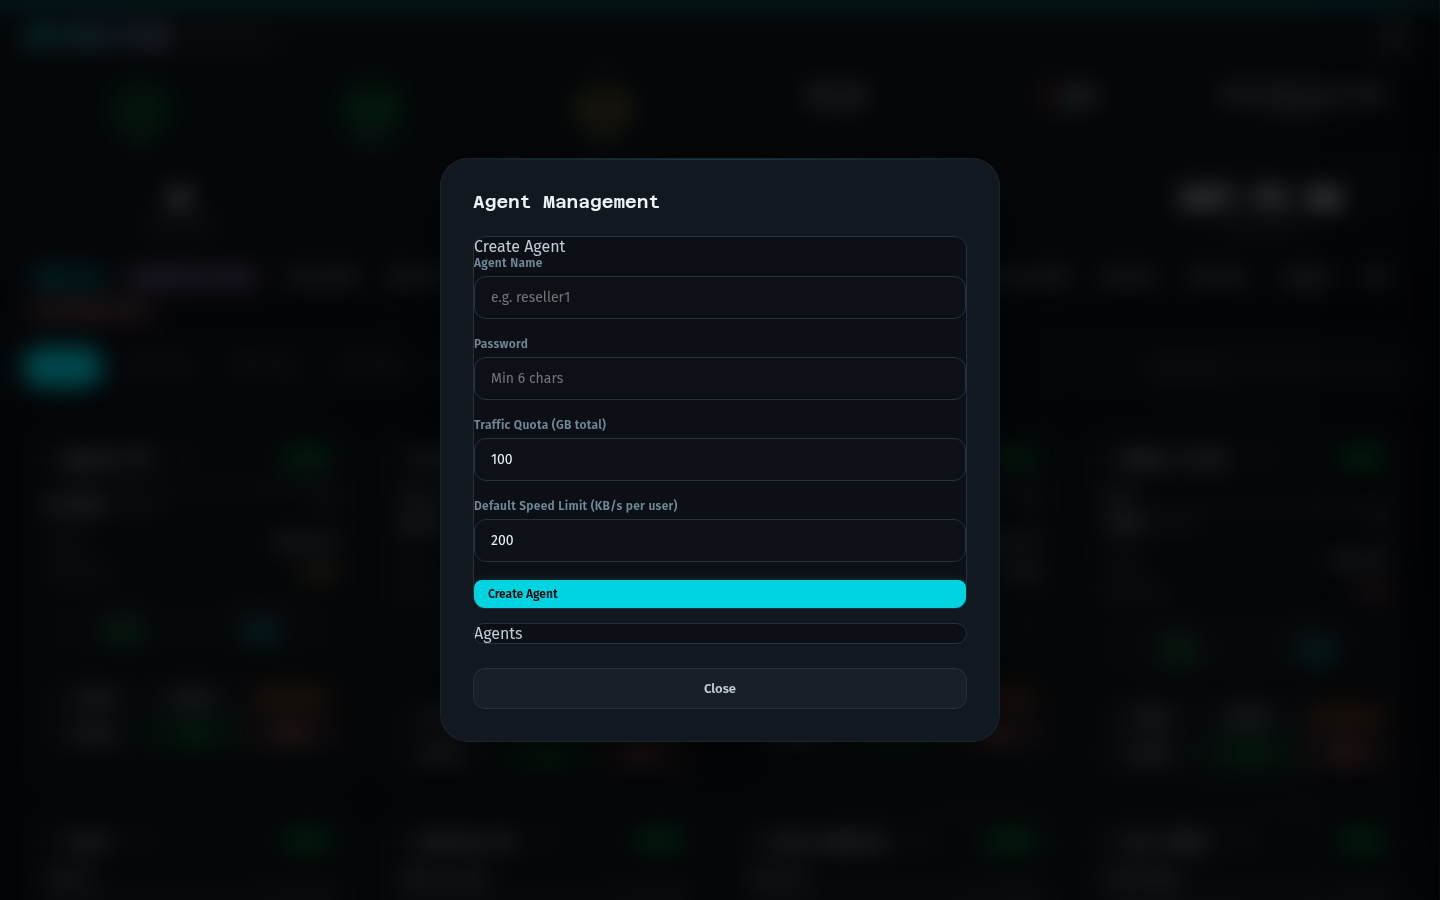
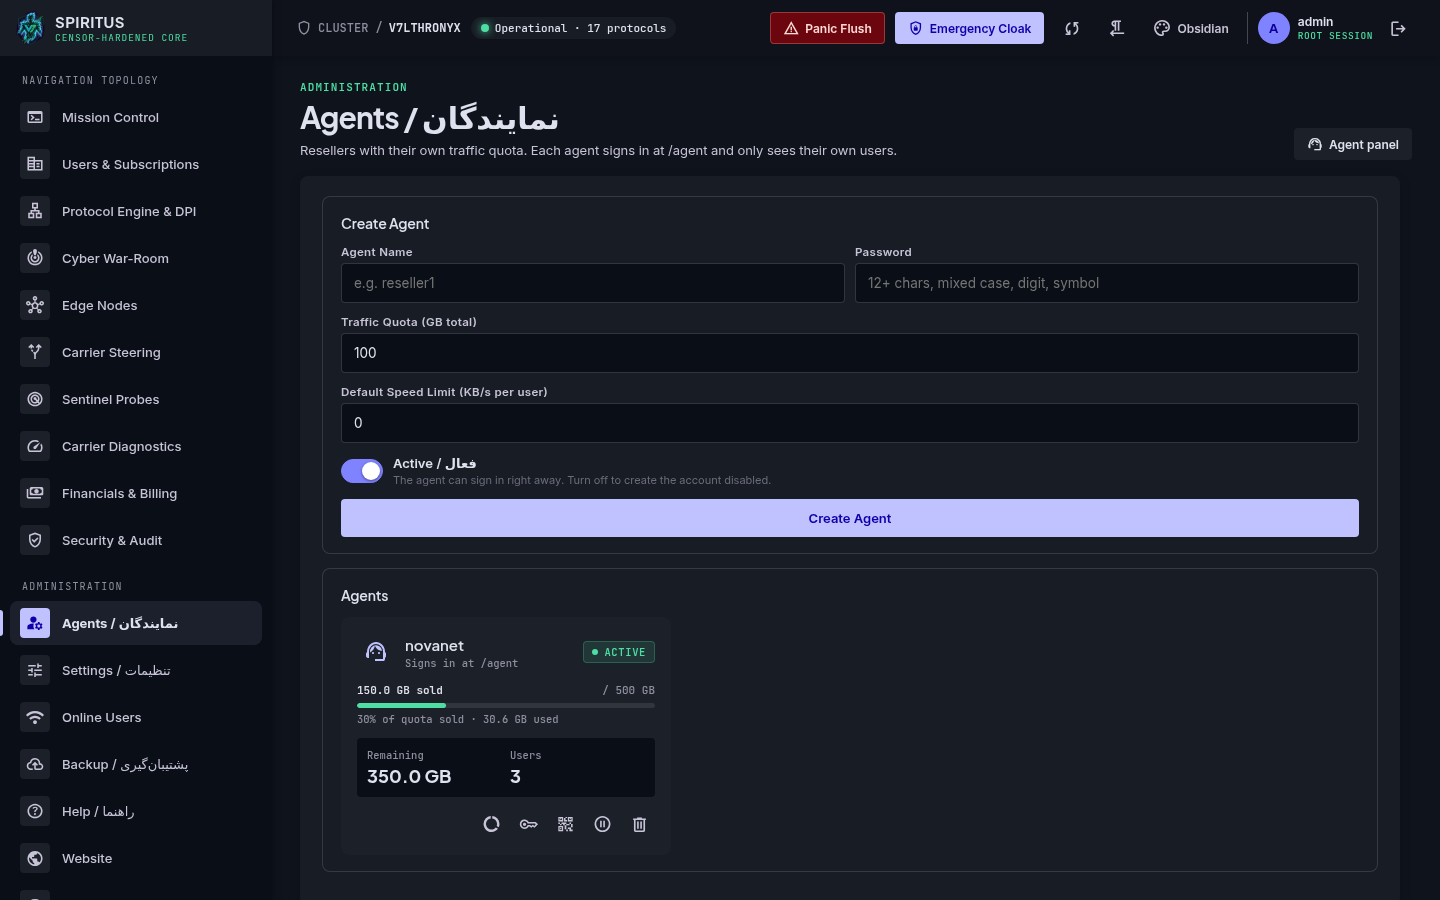
docs: new screenshots of every theme and section, README refresh
36 screenshots (Obsidian, CyberOps, Midnight; every admin section, config
sheets, sing-box / Clash subscriptions, agent panel, customer page on desktop
and phone, website), taken from a test server with demo data and live
clients. README: highlights for live user sync, enforced quotas and speed
limits, the new subscription formats; corrected protocol count and badges.

diff --git a/README.md b/README.md
@@ -12,8 +12,8 @@
   <img src="https://img.shields.io/badge/Python-3.13-3776AB.svg?logo=python&logoColor=white" alt="Python 3.13">
   <img src="https://img.shields.io/badge/FastAPI-0.136-009688.svg?logo=fastapi&logoColor=white" alt="FastAPI 0.136">
   <img src="https://img.shields.io/badge/Xray--core-%E2%9C%93-orange.svg" alt="Xray-core">
-  <img src="https://img.shields.io/badge/sing--box-1.13-blueviolet.svg" alt="sing-box 1.13">
-  <img src="https://img.shields.io/badge/protocols-16-success.svg" alt="16 protocols">
+  <img src="https://img.shields.io/badge/sing--box-1.14-blueviolet.svg" alt="sing-box 1.14">
+  <img src="https://img.shields.io/badge/protocols-13-success.svg" alt="13 protocols">
   <img src="https://img.shields.io/badge/license-MIT-yellow.svg" alt="MIT License">
 </p>
 
@@ -31,37 +31,118 @@
 
 ## ✨ Highlights
 
-- **16 transport protocols** spanning Xray-core, sing-box, and WireGuard — REALITY, XHTTP, Vision, CDN-fronting, Hysteria2, TUIC, ShadowTLS, Mieru, NaiveProxy and AmneziaWG.
-- **Built-in DPI evasion** — TLS fragmentation, noise padding, REALITY domain-fronting, SNI rotation, and emergency-relay failover.
-- **Multi-tenant by design** — admins, traffic-quota agents, and resellers with commission tracking and per-brand subscription pages.
-- **Native mobile client** — a Kotlin/Compose Android app (Xray + sing-box + tun2socks engines) that consumes the same subscription API.
-- **Security-first** — CSP with per-request nonces, HSTS preload, double-submit CSRF, pinned-algorithm JWT, TOTP 2FA, host-header allowlisting, rate-limiting + fail2ban, and a dependency set audited clean.
-- **Operable** — one-command installer, systemd units, Prometheus/Grafana observability, Telegram bot, and automated backups.
+- **13 transport protocols** on Xray-core, sing-box and mita — REALITY, XHTTP, Vision, CDN-fronting, Hysteria2, TUIC, ShadowTLS, NaiveProxy, WireGuard and Mieru — each tested end to end with real clients.
+- **Users take effect live** — create, renew, disable or delete a user and Xray picks it up through its API in about a second: no restart, nobody else disconnected.
+- **Quotas, expiry and speed limits that are enforced** — traffic is counted per user (and per day), users are cut off at their quota or date and come back on renewal; per-user speed limits run in the kernel (tc + nftables).
+- **A profile for every client** — Base64 links, Xray JSON, a sing-box profile (Hiddify, NekoBox) and a Clash Meta profile (Clash Verge, FlClash), plus a bilingual subscription page with one-tap import.
+- **Built-in DPI evasion** — TLS fragmentation, noise padding, REALITY camouflage, Hysteria2 port hopping, SNI rotation, and an emergency cloak driven by in-country probes.
+- **Multi-tenant by design** — admins, traffic-quota agents with their own panel, and resellers with commission tracking.
+- **Security-first** — CSP with per-request nonces, HSTS preload, double-submit CSRF, pinned-algorithm JWT, TOTP 2FA, host-header allowlisting, rate-limiting + fail2ban, and a root helper that only runs allowlisted operations.
+- **Operable** — one-command installer, systemd units, Prometheus metrics, Telegram alerts, automated backups, and three themes.
 
 ---
 
 ## 📸 Screenshots
 
 <p align="center">
-  <img src="docs/screenshots/dashboard.png" alt="Admin dashboard — live stats, protocol toggles, per-user cards" width="800">
+  <img src="docs/screenshots/users-live.png" alt="Users and subscriptions: live speed, quota, validity and status per user" width="900">
 </p>
-<p align="center"><em>Admin dashboard — live CPU/RAM/traffic, one-tap protocol toggles, and per-user cards with usage, expiry and speed.</em></p>
+<p align="center"><em>Users &amp; subscriptions: live speed, quota, validity and status (active, expired, quota used) for every account.</em></p>
+
+### Three themes
 
 <table>
   <tr>
-    <td width="50%"><img src="docs/screenshots/settings-protocols.png" alt="Protocol & REALITY settings"><br><sub>Protocol / REALITY / CDN configuration</sub></td>
-    <td width="50%"><img src="docs/screenshots/subscription-mobile.png" alt="Subscriber view on mobile"><br><sub>Subscriber view (mobile, RTL)</sub></td>
+    <th>Obsidian</th><th>CyberOps</th><th>Midnight</th>
   </tr>
   <tr>
-    <td width="50%"><img src="docs/screenshots/analytics.png" alt="Traffic analytics"><br><sub>Traffic analytics & top users</sub></td>
-    <td width="50%"><img src="docs/screenshots/agents.png" alt="Agent & reseller management"><br><sub>Agent / reseller management</sub></td>
+    <td><img src="docs/screenshots/theme-obsidian-dashboard.png" alt="Mission control, Obsidian theme"></td>
+    <td><img src="docs/screenshots/theme-cyberops-dashboard.png" alt="Mission control, CyberOps theme"></td>
+    <td><img src="docs/screenshots/theme-midnight-dashboard.png" alt="Mission control, Midnight theme"></td>
+  </tr>
+  <tr>
+    <td><img src="docs/screenshots/theme-obsidian-users.png" alt="Users, Obsidian theme"></td>
+    <td><img src="docs/screenshots/theme-cyberops-users.png" alt="Users, CyberOps theme"></td>
+    <td><img src="docs/screenshots/theme-midnight-users.png" alt="Users, Midnight theme"></td>
+  </tr>
+  <tr>
+    <td><img src="docs/screenshots/theme-obsidian-login.png" alt="Sign-in, Obsidian theme"></td>
+    <td><img src="docs/screenshots/theme-cyberops-login.png" alt="Sign-in, CyberOps theme"></td>
+    <td><img src="docs/screenshots/theme-midnight-login.png" alt="Sign-in, Midnight theme"></td>
   </tr>
 </table>
 
-<p align="center">
-  <img src="docs/screenshots/subscription-page.png" alt="Per-user subscription page" width="620">
-</p>
-<p align="center"><em>Branded, plain-language subscription page (bilingual, RTL) — what each customer sees.</em></p>
+### Configs and subscriptions
+
+<table>
+  <tr>
+    <td width="50%"><img src="docs/screenshots/config-sheet.png" alt="Config sheet with every protocol and a QR code"><br><sub>Per-user config: every protocol the server runs, with QR</sub></td>
+    <td width="50%"><img src="docs/screenshots/config-subscriptions.png" alt="Subscription page, sing-box and Clash profile links"><br><sub>Subscription page, sing-box and Clash Meta profiles</sub></td>
+  </tr>
+  <tr>
+    <td width="50%"><img src="docs/screenshots/config-hysteria2.png" alt="Hysteria2 config"><br><sub>Hysteria2 with Salamander and a pinned certificate</sub></td>
+    <td width="50%"><img src="docs/screenshots/config-wireguard.png" alt="WireGuard config"><br><sub>WireGuard: per-user keys, scan the QR in the WireGuard app</sub></td>
+  </tr>
+  <tr>
+    <td width="50%"><img src="docs/screenshots/subscription-page.png" alt="Customer subscription page"><br><sub>What each customer sees: status, usage, one-tap import</sub></td>
+    <td width="50%"><img src="docs/screenshots/subscription-mobile-fa.png" alt="Customer page on a phone, Persian"><br><sub>The same page on a phone, in Persian (RTL)</sub></td>
+  </tr>
+</table>
+
+### Operations
+
+<table>
+  <tr>
+    <td width="50%"><img src="docs/screenshots/protocol-engine.png" alt="Protocol engine and DPI"><br><sub>Protocol engine: listening ports, REALITY dest checks, success from Iran</sub></td>
+    <td width="50%"><img src="docs/screenshots/war-room.png" alt="Cyber war-room"><br><sub>War-room: attacks, DPI posture, automatic emergency cloak</sub></td>
+  </tr>
+  <tr>
+    <td width="50%"><img src="docs/screenshots/sentinel-probes.png" alt="Sentinel probes"><br><sub>Sentinel probes inside Iran report what each carrier lets through</sub></td>
+    <td width="50%"><img src="docs/screenshots/carrier-steering.png" alt="Carrier steering"><br><sub>Carrier steering: best protocol per carrier</sub></td>
+  </tr>
+  <tr>
+    <td width="50%"><img src="docs/screenshots/online-users.png" alt="Online users with connected IPs"><br><sub>Who is online, from which IPs</sub></td>
+    <td width="50%"><img src="docs/screenshots/system-details.png" alt="System details with daily traffic"><br><sub>System details and real daily traffic</sub></td>
+  </tr>
+  <tr>
+    <td width="50%"><img src="docs/screenshots/financials.png" alt="Financials and billing"><br><sub>Payments (Zarinpal, IDPay, USDT) and reseller wallets</sub></td>
+    <td width="50%"><img src="docs/screenshots/agents.png" alt="Agents"><br><sub>Agents: quota sold and used, one-click mobile login</sub></td>
+  </tr>
+</table>
+
+<details>
+<summary><b>More screens</b>: agent panel, settings, edge nodes, security, add-user sheet, phone, website</summary>
+
+<table>
+  <tr>
+    <td width="50%"><img src="docs/screenshots/agent-panel.png" alt="Agent panel"><br><sub>Agent panel: an agent sees and sells only their own users</sub></td>
+    <td width="50%"><img src="docs/screenshots/agent-groups.png" alt="Agent groups"><br><sub>Agent panel: bulk-created groups</sub></td>
+  </tr>
+  <tr>
+    <td width="50%"><img src="docs/screenshots/settings.png" alt="Settings"><br><sub>Settings: one row per option, sections fold</sub></td>
+    <td width="50%"><img src="docs/screenshots/add-user-sheet.png" alt="Add user side sheet"><br><sub>Add user: side sheet, presets, speed limit</sub></td>
+  </tr>
+  <tr>
+    <td width="50%"><img src="docs/screenshots/edge-nodes.png" alt="Edge nodes"><br><sub>Edge nodes and their reachability</sub></td>
+    <td width="50%"><img src="docs/screenshots/carrier-diagnostics.png" alt="Carrier diagnostics"><br><sub>Carrier diagnostics</sub></td>
+  </tr>
+  <tr>
+    <td width="50%"><img src="docs/screenshots/security-audit.png" alt="Security and audit"><br><sub>Security &amp; audit log</sub></td>
+    <td width="50%"><img src="docs/screenshots/confirm-bar.png" alt="Confirm bar"><br><sub>No browser pop-ups: confirmations slide in at the bottom</sub></td>
+  </tr>
+  <tr>
+    <td width="50%"><img src="docs/screenshots/backup.png" alt="Backup"><br><sub>Encrypted backups</sub></td>
+    <td width="50%"><img src="docs/screenshots/help.png" alt="Help"><br><sub>Built-in help (English / Persian)</sub></td>
+  </tr>
+  <tr>
+    <td width="50%"><img src="docs/screenshots/mobile-panel.png" alt="Admin panel on a phone"><br><sub>The admin panel on a phone (CyberOps)</sub></td>
+    <td width="50%"><img src="docs/screenshots/landing.png" alt="Project website"><br><sub>Project website</sub></td>
+  </tr>
+</table>
+
+</details>
+
+<sub>Screenshots use demo data on a test server: addresses are from the 203.0.113.0/24 documentation range, and the "online" users are real clients connected over loopback.</sub>
 
 ---
 
@@ -69,21 +150,33 @@
 
 | Engine | Protocol | Transport / Flow | TLS | CDN |
 |--------|----------|------------------|:---:|:---:|
-| Xray | **VLESS + XHTTP + REALITY** | XHTTP, relay-domain fronting | REALITY | — |
-| Xray | **VLESS + REALITY + Vision** | XTLS-Vision (fresh IP) | REALITY | — |
-| Xray | **VLESS-Reverse-REALITY** | backhaul / rathole tunnel | REALITY | — |
-| Xray | **VLESS + WS / gRPC / HTTPUpgrade** | WebSocket, gRPC, HTTPUpgrade | ✅ | ✅ |
-| Xray | **VMess + WS + TLS** | WebSocket | ✅ | ✅ |
-| Xray | **Trojan-CDN** | WS / gRPC behind CDN | ✅ | ✅ |
-| Xray | **Shadowsocks-2022** | TCP (blake3-AES-GCM) | — | — |
-| sing-box | **Hysteria2** | QUIC + Salamander + port-hop | ✅ | — |
+| Xray | **VLESS + XHTTP + REALITY** | XHTTP | REALITY | — |
+| Xray | **VLESS + REALITY + Vision** | XTLS-Vision | REALITY | — |
+| Xray | **VLESS-Reverse-REALITY** | TCP | REALITY | — |
+| Xray | **VLESS + WS** | WebSocket | ✅ | ✅ |
+| Xray | **VMess + WS / gRPC / HTTPUpgrade** | WebSocket, gRPC, HTTPUpgrade | ✅ | ✅ |
+| Xray | **Trojan** (TCP, or WS behind a CDN) | TCP / WebSocket | ✅ | ✅ |
+| Xray | **Shadowsocks-2022** | TCP + UDP, one key per user | — | — |
+| sing-box | **Hysteria2** | QUIC + Salamander + port hopping | ✅ | — |
 | sing-box | **TUIC v5** | QUIC | ✅ | — |
-| sing-box | **ShadowTLS v3** | TLS camouflage | ✅ | — |
-| standalone | **Mieru** | obfuscated TCP/UDP | — | — |
-| standalone | **NaiveProxy** | HTTP/2 CONNECT | ✅ | ✅ |
-| WireGuard | **AmneziaWG 2.0** | UDP (obfuscated WG) | — | — |
+| sing-box | **ShadowTLS v3** | TLS camouflage + Shadowsocks-2022 | borrowed | — |
+| sing-box | **NaiveProxy** | HTTP/2 CONNECT | ✅ | — |
+| sing-box | **WireGuard** | UDP | — | — |
+| mita | **Mieru** | obfuscated TCP or UDP | — | — |
 
-Subscriptions are served as Base64 share-links (`/sub-api/{uuid}`), a JSON profile (`/sub-json/{uuid}`), and a styled HTML page (`/sub/{uuid}`), with `Subscription-Userinfo` traffic/expiry headers that any standard client understands.
+Every protocol in this table was run end to end with real clients (Xray 26, sing-box 1.14, mihomo 1.19, mieru 3.38): each user has their own credentials, is added and removed live (no restart, no dropped connections for others), counted, and cut off at their quota or expiry date. Per-user speed limits apply to all of them except Mieru (tc + nftables per user, through the root helper).
+
+AmneziaWG and OpenVPN are not available yet: they need server components the installer does not set up, so the panel does not offer them.
+
+Subscriptions:
+
+- `/sub-api/{uuid}`: Base64 share links (V2RayNG, Hiddify, Streisand, v2rayN)
+- `/sub-json/{uuid}`: Xray JSON (V2RayNG, Streisand), with Fragment / MUX
+- `/sub-singbox/{uuid}`: sing-box profile (Hiddify, NekoBox, sing-box apps), the only one with ShadowTLS and WireGuard
+- `/sub-clash/{uuid}`: Clash Meta / mihomo profile (Clash Verge, FlClash), with ShadowTLS and Mieru
+- `/sub/{uuid}`: the styled page each customer sees
+
+All carry `Subscription-Userinfo` traffic / expiry headers.
 
 ---
 
@@ -124,13 +217,15 @@ Spiritus is built to be exposed to hostile networks. Defenses are layered:
 
 ## 🚀 Quick Start
 
-**Requirements:** a fresh Linux server (Debian/Ubuntu recommended), root access, and a domain pointed at it.
+**Requirements:** a fresh Ubuntu 22.04+ or Debian 12 server, root access and 1 GB of RAM. **No domain needed:** REALITY protocols need no certificate, and the installer gets a Let's Encrypt certificate for the server's IP (clients never need "allow insecure").
 
 **One-line install** — downloads and runs the installer, which clones the repo into `/opt/v7lthronyx`:
 
 ```bash
-bash <(curl -sL https://raw.githubusercontent.com/v74all/Spiritus/main/install.sh)
+sudo bash -c "$(curl -fsSL https://raw.githubusercontent.com/v74all/Spiritus/main/install.sh)"
 ```
+
+It ends by printing the panel address, username and password. Step-by-step guide with common problems (Persian and English): [INSTALL.md](INSTALL.md).
 
 Useful flags:
 
@@ -237,17 +332,22 @@ Released under the [MIT License](LICENSE).
 **Spiritus** یک پنل مدیریت VPN مدرن و **امنیتمحور** برای Xray-core و sing-box است؛ ساختهشده برای شبکههای پرسانسور، نمایندگی/رزلرِ چندمستاجری، و یک **کلاینت موبایل بومی**.
 
 **ویژگیها**
-- **۱۶ پروتکل** روی Xray / sing-box / WireGuard — REALITY، XHTTP، Vision، CDN-fronting، Hysteria2، TUIC، ShadowTLS، Mieru، NaiveProxy، AmneziaWG.
-- **دور زدن DPI** — فرگمنت TLS، نویز، domain-fronting، چرخش SNI، relay اضطراری.
-- **چندمستاجری** — ادمین، نماینده با سهمیهی ترافیک، و رزلر با کمیسیون.
+- **۱۳ پروتکل** روی Xray / sing-box / mita — REALITY، XHTTP، Vision، CDN-fronting، Hysteria2، TUIC، ShadowTLS، NaiveProxy، WireGuard، Mieru — همه با کلاینت واقعی تستشده.
+- **اعمال فوری کاربر** — ساخت، تمدید، قطع یا حذف کاربر در حدود یک ثانیه روی سرور اعمال میشود؛ بدون ریاستارت و بدون قطع شدن بقیه.
+- **حجم، انقضا و محدودیت سرعت واقعی** — مصرف هر کاربر (و هر روز) شمرده میشود، با تمام شدن حجم یا تاریخ قطع میشود و با تمدید برمیگردد؛ محدودیت سرعت در کرنل (tc + nftables) اعمال میشود.
+- **اشتراک برای هر برنامه** — لینک Base64، JSON برای Xray، پروفایل sing-box (Hiddify و NekoBox) و Clash Meta (Clash Verge و FlClash)، با صفحهی اشتراک دوزبانه و افزودن با یک لمس.
+- **دور زدن DPI** — فرگمنت TLS، نویز، REALITY، port hopping در Hysteria2، چرخش SNI، و پوشش اضطراری خودکار بر اساس پرابهای داخل ایران.
+- **چندمستاجری** — ادمین، نماینده با سهمیهی ترافیک و پنل جداگانه، و رزلر با کمیسیون.
+- **سه تم** — Obsidian، CyberOps و Midnight (تصاویر بالا).
 - **اپ اندروید بومی** (Kotlin/Compose) با موتورهای Xray + sing-box + tun2socks که با هر پنلی کار میکند.
 
 **امنیت** — CSP با nonce، HSTS preload، CSRF دو-کوکی، JWT با الگوریتم pinشده، 2FA، allowlist هاست، محدودیت حجم بدنه، rate-limit + fail2ban، و وابستگیهای **بدون CVE شناختهشده**.
 
-**نصب سریع (یکخط)** — نصبکننده خودش ریپو را در `/opt/v7lthronyx` clone میکند:
+**نصب سریع (یکخط)** — دامنه لازم نیست. نصبکننده خودش ریپو را در `/opt/v7lthronyx` clone میکند و در آخر آدرس پنل، نام کاربری و رمز را نشان میدهد:
 ```bash
-bash <(curl -sL https://raw.githubusercontent.com/v74all/Spiritus/main/install.sh)
+sudo bash -c "$(curl -fsSL https://raw.githubusercontent.com/v74all/Spiritus/main/install.sh)"
 ```
+راهنمای قدمبهقدم و مشکلات رایج: [INSTALL.md](INSTALL.md)
 
 > ⚠ فایل `.env` واقعی هرگز نباید commit شود (پیشفرض در `.gitignore` است).
 
